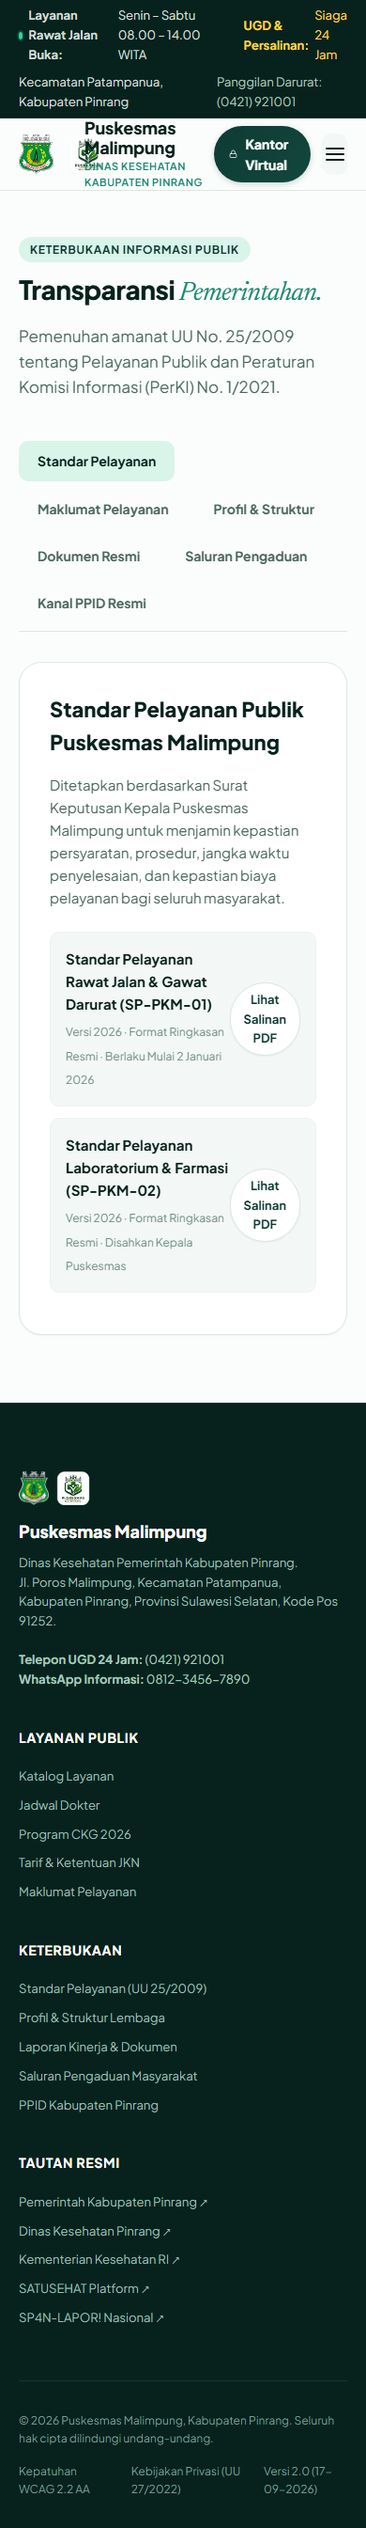
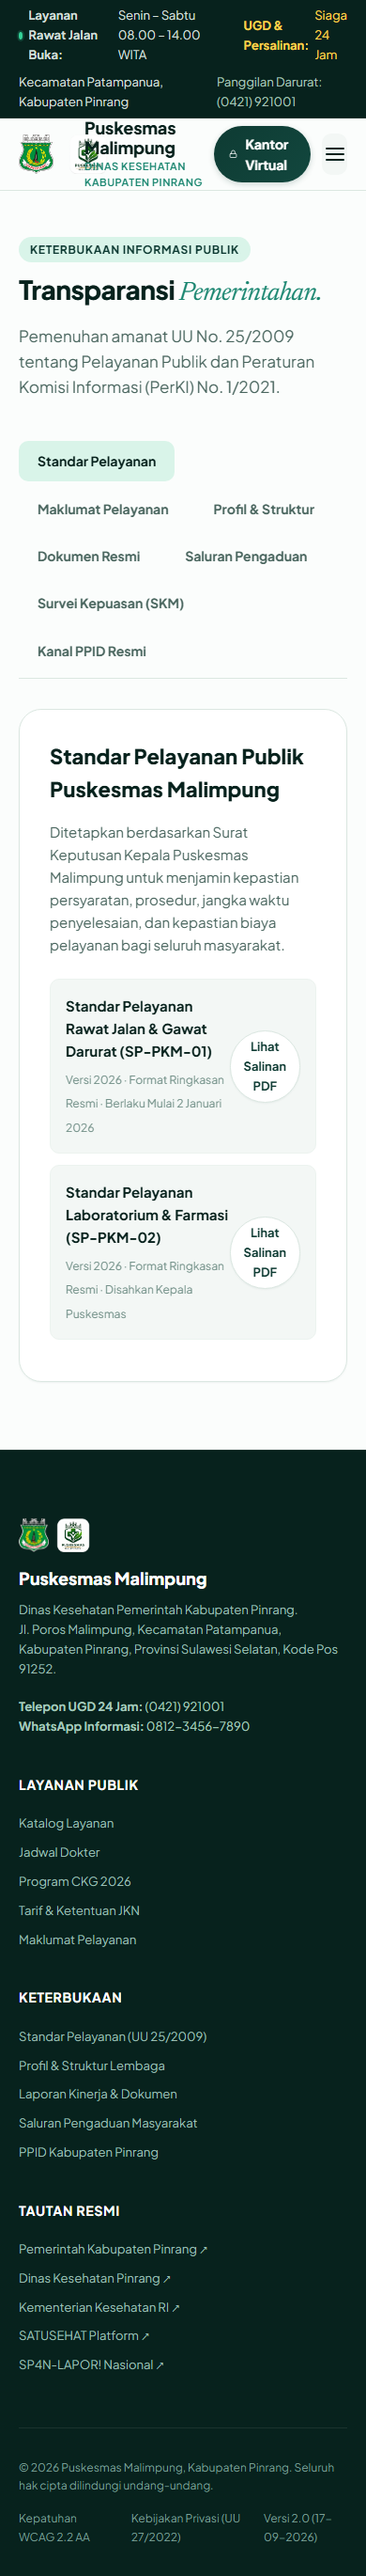
feat(refine): integrate activity gallery, closing CTA, SKM survey module, and duty schedules into health hub v2

diff --git a/prototype/index.html b/prototype/index.html
@@ -408,6 +408,89 @@
           </div>
         </div>
       </section>
+
+      <!-- Aktivitas & Dokumentasi Kesehatan Masyarakat (Activity Gallery) -->
+      <section class="section">
+        <div class="container">
+          <div class="section-header">
+            <span class="tag-badge warm">Dokumentasi Lapangan</span>
+            <h2 class="section-title">Aktivitas kesehatan, <em>nyata bersama warga.</em></h2>
+            <p class="section-desc">Upaya promotif dan preventif yang diselenggarakan langsung oleh tenaga kesehatan Puskesmas Malimpung bersama kader posyandu di desa binaan.</p>
+          </div>
+          <div class="activity-grid">
+            <article class="activity-card">
+              <div class="activity-badge-bar">
+                <span class="tag-badge" style="margin-bottom: 0;">KIA & Gizi Balita</span>
+                <span style="font-size: 0.75rem; color: var(--ink-tertiary);">12 Sept 2026</span>
+              </div>
+              <div class="activity-body">
+                <div>
+                  <h3 class="activity-title">Pelaksanaan Posyandu Siklus Hidup dan Pembagian PMT Lokal di Desa Masolo</h3>
+                  <p class="activity-desc">Pemantauan berat dan tinggi badan balita serta edukasi pemberian makanan pendamping ASI kaya protein hewani untuk pencegahan stunting.</p>
+                </div>
+                <div class="activity-meta">
+                  <svg style="width: 14px; height: 14px;" aria-hidden="true"><use href="#ic-map-pin"/></svg>
+                  <span>Posyandu Melati, Desa Masolo</span>
+                </div>
+              </div>
+            </article>
+
+            <article class="activity-card">
+              <div class="activity-badge-bar">
+                <span class="tag-badge warm" style="margin-bottom: 0;">Program Nasional CKG</span>
+                <span style="font-size: 0.75rem; color: var(--ink-tertiary);">08 Sept 2026</span>
+              </div>
+              <div class="activity-body">
+                <div>
+                  <h3 class="activity-title">Skrining Cek Kesehatan Gratis (CKG) Bagi Petugas Publik & Warga Dewasa</h3>
+                  <p class="activity-desc">Pemeriksaan profil tekanan darah, gula darah sewaktu, dan skrining faktor risiko PTM dalam rangka program ulang tahun sehat.</p>
+                </div>
+                <div class="activity-meta">
+                  <svg style="width: 14px; height: 14px;" aria-hidden="true"><use href="#ic-map-pin"/></svg>
+                  <span>Aula Kantor Camat Patampanua</span>
+                </div>
+              </div>
+            </article>
+
+            <article class="activity-card">
+              <div class="activity-badge-bar">
+                <span class="tag-badge sky" style="margin-bottom: 0;">GERMAS Hidup Sehat</span>
+                <span style="font-size: 0.75rem; color: var(--ink-tertiary);">04 Sept 2026</span>
+              </div>
+              <div class="activity-body">
+                <div>
+                  <h3 class="activity-title">Kampanye Gerakan Masyarakat Hidup Sehat & Senam Bugar Lansia</h3>
+                  <p class="activity-desc">Kegiatan aktifitas fisik bersama kelompok lansia binaan dirangkaikan dengan pemeriksaan kesehatan fungsional dan cek laboratorium sederhana.</p>
+                </div>
+                <div class="activity-meta">
+                  <svg style="width: 14px; height: 14px;" aria-hidden="true"><use href="#ic-map-pin"/></svg>
+                  <span>Halaman Puskesmas Malimpung</span>
+                </div>
+              </div>
+            </article>
+          </div>
+        </div>
+      </section>
+
+      <!-- Strong Closing Call To Action (CTA) -->
+      <section class="section" style="padding-top: 1rem; padding-bottom: 3.5rem;">
+        <div class="container">
+          <div class="closing-cta">
+            <h2>Kesehatan keluarga Anda, <em>prioritas pelayanan kami.</em></h2>
+            <p>
+              Jangan ragu berkonsultasi dengan tenaga medis kami. Layanan rawat jalan buka setiap hari kerja dan Instalasi Gawat Darurat siap siaga 24 jam penuh untuk masyarakat Malimpung.
+            </p>
+            <div class="closing-cta-btns">
+              <a href="#services" class="btn-primary" data-go="services" style="background-color: var(--jade-500); color: #ffffff;">
+                Cari Jadwal & Persyaratan Layanan
+              </a>
+              <a href="#public" class="btn-secondary" data-go="public" style="background-color: transparent; border-color: rgba(255,255,255,0.3); color: #ffffff;">
+                Saluran Pengaduan & Aspirasi
+              </a>
+            </div>
+          </div>
+        </div>
+      </section>
     </div>
 
     <!-- ====================================================================
@@ -688,6 +771,7 @@
             <button class="public-tab-btn" data-ptab="profil">Profil & Struktur</button>
             <button class="public-tab-btn" data-ptab="dokumen">Dokumen Resmi</button>
             <button class="public-tab-btn" data-ptab="pengaduan">Saluran Pengaduan</button>
+            <button class="public-tab-btn" data-ptab="skm">Survei Kepuasan (SKM)</button>
             <button class="public-tab-btn" data-ptab="ppid">Kanal PPID Resmi</button>
           </div>
 
@@ -794,7 +878,35 @@
             </div>
           </div>
 
-          <!-- Konten Tab 6: Kanal PPID -->
+          <!-- Konten Tab 6: Survei Kepuasan Masyarakat (SKM) -->
+          <div class="public-tab-content" id="ptab-skm" style="display: none;">
+            <div class="transparency-card">
+              <h3>Hasil Survei Kepuasan Masyarakat (SKM) Pelayanan</h3>
+              <p style="font-size: 0.9375rem; color: var(--ink-secondary); line-height: 1.6; margin-bottom: 1.5rem;">
+                Disusun secara periodik berdasarkan Peraturan Menteri Pendayagunaan Aparatur Negara dan Reformasi Birokrasi (Permenpan-RB) No. 14 Tahun 2017 tentang Pedoman Penyusunan Survei Kepuasan Masyarakat Unit Penyelenggara Pelayanan Publik.
+              </p>
+              <div style="display: grid; grid-template-columns: repeat(auto-fit, minmax(280px, 1fr)); gap: 1.5rem; margin-bottom: 1.5rem;">
+                <div class="skm-score-card">
+                  <span class="skm-badge-predikat">Mutu Pelayanan: Sangat Baik (A)</span>
+                  <div class="skm-score-val">88.45</div>
+                  <span style="font-size: 0.875rem; font-weight: 700; color: var(--forest-950);">Indeks Kepuasan Masyarakat (IKM)</span>
+                  <small style="font-size: 0.75rem; color: var(--ink-tertiary); margin-top: 0.25rem;">Periode: Semester I Tahun 2026 (350 Responden Masyarakat)</small>
+                </div>
+                <div style="background-color: var(--surface-alt); padding: 1.5rem; border-radius: var(--radius-lg); border: 1px solid var(--border-light);">
+                  <h4 style="font-size: 0.9375rem; font-weight: 700; color: var(--forest-950); margin-bottom: 0.75rem;">Nilai Unsur Pelayanan Utama:</h4>
+                  <ul style="font-size: 0.8125rem; color: var(--ink-secondary); line-height: 1.8; list-style: disc; margin-left: 1.25rem;">
+                    <li>Kesesuaian Persyaratan Pelayanan (Skor: 3.65)</li>
+                    <li>Kemudahan Prosedur & Alur Kunjungan (Skor: 3.58)</li>
+                    <li>Kecepatan Waktu Pelayanan Medis (Skor: 3.42)</li>
+                    <li>Ketiadaan Biaya Liar / Transparansi Tarif (Skor: 3.85)</li>
+                    <li>Kesopanan & Keramahan Petugas (Skor: 3.70)</li>
+                  </ul>
+                </div>
+              </div>
+            </div>
+          </div>
+
+          <!-- Konten Tab 7: Kanal PPID -->
           <div class="public-tab-content" id="ptab-ppid" style="display: none;">
             <div class="transparency-card">
               <h3>Kanal Pejabat Pengelola Informasi & Dokumentasi (PPID)</h3>
@@ -855,6 +967,7 @@
             <div class="office-nav-tabs">
               <button class="office-tab-item active" data-otab="overview">Overview Eksekutif</button>
               <button class="office-tab-item" data-otab="layanan-internal">Verifikasi Pelayanan</button>
+              <button class="office-tab-item" data-otab="jadwal-nakes">Jadwal Tugas & Absensi</button>
               <button class="office-tab-item" data-otab="integrasi">Konektor Sistem Eksternal</button>
               <button class="office-tab-item" data-otab="cms">CMS Manajemen Konten</button>
               <button class="office-tab-item" data-otab="audit">Audit Log & Kualitas Data</button>
@@ -918,7 +1031,58 @@
                 </div>
               </div>
 
-              <!-- Tab 3: Konektor Sistem Eksternal -->
+              <!-- Tab 3: Jadwal Tugas & Kehadiran Pegawai -->
+              <div class="otab-pane" id="otab-jadwal-nakes" style="display: none;">
+                <div class="transparency-card" style="margin-bottom: 0;">
+                  <div style="display: flex; justify-content: space-between; align-items: center; margin-bottom: 1rem; flex-wrap: wrap; gap: 0.5rem;">
+                    <div>
+                      <h4 style="font-size: 1.125rem; font-weight: 800; color: var(--forest-950);">Jadwal Jaga & Penugasan Nakes Hari Ini</h4>
+                      <p style="font-size: 0.8125rem; color: var(--ink-secondary);">Sistem monitoring kehadiran dinas dan penugasan shift pelayanan rawat jalan & darurat.</p>
+                    </div>
+                    <span class="integrity-badge verified">Shift Pagi (08.00 – 14.00 WITA)</span>
+                  </div>
+                  <div class="detail-table">
+                    <table>
+                      <thead>
+                        <tr style="border-bottom: 2px solid var(--border);">
+                          <th style="padding: 0.5rem; text-align: left;">Unit Pelayanan / Poli</th>
+                          <th style="padding: 0.5rem; text-align: left;">Tenaga Medis Bertugas</th>
+                          <th style="padding: 0.5rem; text-align: left;">Jabatan Fungsional</th>
+                          <th style="padding: 0.5rem; text-align: left;">Status Kehadiran</th>
+                        </tr>
+                      </thead>
+                      <tbody>
+                        <tr style="border-bottom: 1px solid var(--border-light);">
+                          <td style="padding: 0.625rem 0.5rem; font-weight: 700;">Poli Umum</td>
+                          <td style="padding: 0.625rem 0.5rem;">dr. Ahmad Pratama</td>
+                          <td style="padding: 0.625rem 0.5rem;">Dokter Umum Pertama</td>
+                          <td style="padding: 0.625rem 0.5rem;"><span style="color: var(--emerald-600); font-weight: 700;">● Hadir Bertugas</span></td>
+                        </tr>
+                        <tr style="border-bottom: 1px solid var(--border-light);">
+                          <td style="padding: 0.625rem 0.5rem; font-weight: 700;">Poli KIA & KB</td>
+                          <td style="padding: 0.625rem 0.5rem;">Bdn. Siti Marlina, S.Tr.Keb</td>
+                          <td style="padding: 0.625rem 0.5rem;">Bidan Mahir</td>
+                          <td style="padding: 0.625rem 0.5rem;"><span style="color: var(--emerald-600); font-weight: 700;">● Hadir Bertugas</span></td>
+                        </tr>
+                        <tr style="border-bottom: 1px solid var(--border-light);">
+                          <td style="padding: 0.625rem 0.5rem; font-weight: 700;">Poli Gigi & Mulut</td>
+                          <td style="padding: 0.625rem 0.5rem;">drg. Rizky Hidayat</td>
+                          <td style="padding: 0.625rem 0.5rem;">Dokter Gigi Muda</td>
+                          <td style="padding: 0.625rem 0.5rem;"><span style="color: var(--emerald-600); font-weight: 700;">● Hadir Bertugas</span></td>
+                        </tr>
+                        <tr>
+                          <td style="padding: 0.625rem 0.5rem; font-weight: 700;">UGD & Persalinan 24 Jam</td>
+                          <td style="padding: 0.625rem 0.5rem;">Tim Jaga Shift 1 (3 Perawat & 2 Bidan)</td>
+                          <td style="padding: 0.625rem 0.5rem;">Tim Siaga Darurat</td>
+                          <td style="padding: 0.625rem 0.5rem;"><span style="color: var(--emerald-600); font-weight: 700;">● Standby Penuh</span></td>
+                        </tr>
+                      </tbody>
+                    </table>
+                  </div>
+                </div>
+              </div>
+
+              <!-- Tab 4: Konektor Sistem Eksternal -->
               <div class="otab-pane" id="otab-integrasi" style="display: none;">
                 <div class="transparency-card" style="margin-bottom: 0;">
                   <h4>Status Arsitektur Integrasi Sistem (Pemisahan Tegas)</h4>

diff --git a/prototype/style.css b/prototype/style.css
@@ -1836,3 +1836,157 @@ ul, ol {
   transform: translateY(0);
   opacity: 1;
 }
+
+/* --------------------------------------------------------------------------
+   16. ACTIVITY GALLERY & COMMUNITY HEALTH
+   -------------------------------------------------------------------------- */
+.activity-grid {
+  display: grid;
+  grid-template-columns: 1fr;
+  gap: 1.5rem;
+}
+
+@media (min-width: 768px) {
+  .activity-grid {
+    grid-template-columns: repeat(3, 1fr);
+  }
+}
+
+.activity-card {
+  background-color: #ffffff;
+  border: 1px solid var(--border);
+  border-radius: var(--radius-lg);
+  overflow: hidden;
+  display: flex;
+  flex-direction: column;
+  transition: all var(--duration-fast);
+}
+
+.activity-card:hover {
+  transform: translateY(-3px);
+  border-color: var(--jade-600);
+  box-shadow: var(--shadow-md);
+}
+
+.activity-badge-bar {
+  padding: 1.25rem 1.25rem 0.5rem 1.25rem;
+  display: flex;
+  align-items: center;
+  justify-content: space-between;
+}
+
+.activity-body {
+  padding: 0 1.25rem 1.25rem 1.25rem;
+  display: flex;
+  flex-direction: column;
+  flex-grow: 1;
+  justify-content: space-between;
+}
+
+.activity-title {
+  font-size: 1.0625rem;
+  font-weight: 800;
+  color: var(--forest-950);
+  line-height: 1.35;
+  margin-bottom: 0.5rem;
+}
+
+.activity-desc {
+  font-size: 0.8125rem;
+  color: var(--ink-secondary);
+  line-height: 1.6;
+  margin-bottom: 1rem;
+}
+
+.activity-meta {
+  display: flex;
+  align-items: center;
+  gap: 0.5rem;
+  font-size: 0.75rem;
+  color: var(--ink-tertiary);
+  padding-top: 0.75rem;
+  border-top: 1px solid var(--border-light);
+}
+
+/* --------------------------------------------------------------------------
+   17. STRONG CLOSING CTA
+   -------------------------------------------------------------------------- */
+.closing-cta {
+  background: radial-gradient(circle at 100% 0%, rgba(24, 133, 111, 0.15) 0%, transparent 50%),
+              linear-gradient(135deg, var(--forest-900) 0%, var(--forest-950) 100%);
+  border-radius: var(--radius-xl);
+  padding: 3.5rem 2rem;
+  color: #ffffff;
+  text-align: center;
+  position: relative;
+  overflow: hidden;
+  margin-top: 2rem;
+}
+
+.closing-cta h2 {
+  font-size: clamp(1.75rem, 3.5vw, 2.5rem);
+  font-weight: 800;
+  color: #ffffff;
+  margin-bottom: 1rem;
+}
+
+.closing-cta h2 em {
+  font-family: var(--font-serif);
+  font-style: italic;
+  font-weight: 400;
+  color: var(--mint-200);
+}
+
+.closing-cta p {
+  font-size: 1.0625rem;
+  color: #b3cdc4;
+  max-width: 640px;
+  margin-left: auto;
+  margin-right: auto;
+  margin-bottom: 2rem;
+  line-height: 1.6;
+}
+
+.closing-cta-btns {
+  display: flex;
+  justify-content: center;
+  flex-wrap: wrap;
+  gap: 1rem;
+}
+
+/* --------------------------------------------------------------------------
+   18. SURVEI KEPUASAN MASYARAKAT (SKM)
+   -------------------------------------------------------------------------- */
+.skm-score-card {
+  background: linear-gradient(135deg, var(--mint-50), #ffffff);
+  border: 1px solid var(--border);
+  border-radius: var(--radius-lg);
+  padding: 1.75rem;
+  text-align: center;
+  display: flex;
+  flex-direction: column;
+  align-items: center;
+  justify-content: center;
+}
+
+.skm-score-val {
+  font-size: 3rem;
+  font-weight: 800;
+  color: var(--forest-950);
+  line-height: 1;
+  margin-bottom: 0.25rem;
+}
+
+.skm-badge-predikat {
+  font-size: 0.8125rem;
+  font-weight: 800;
+  text-transform: uppercase;
+  letter-spacing: 0.05em;
+  padding: 0.25rem 0.75rem;
+  border-radius: var(--radius-full);
+  background-color: var(--emerald-50);
+  color: var(--emerald-600);
+  border: 1px solid rgba(5, 150, 105, 0.2);
+  margin-bottom: 0.5rem;
+}
+
